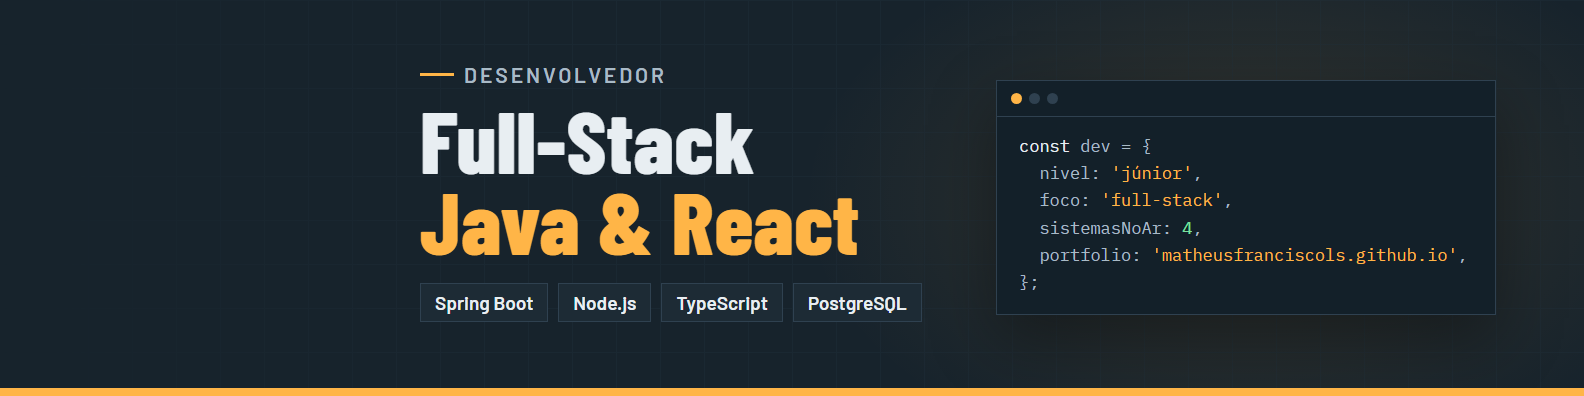
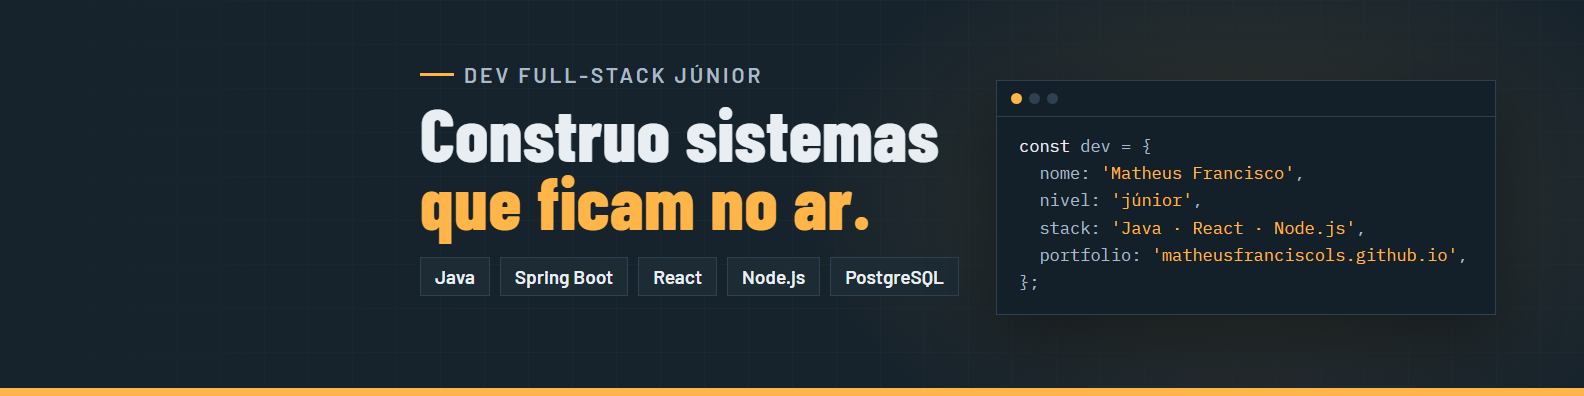
Capa do LinkedIn sem numeros que envelhecem (sem contador de sistemas)

diff --git a/meu-portfolio/og/capa-linkedin.html b/meu-portfolio/og/capa-linkedin.html
@@ -1,6 +1,6 @@
 <!doctype html>
 <html lang="pt-BR"><head><meta charset="utf-8">
-<!-- Capa do LinkedIn (1584 x 396), na identidade do portfólio "Painel ao vivo".
+<!-- Capa do LinkedIn (1584 x 396), na identidade do portfólio "Painel ao vivo". Sem números (sistemas no ar, projetos) para não envelhecer.
      Área segura: no computador a foto de perfil cobre o canto inferior esquerdo,
      e no celular o LinkedIn corta as laterais. O texto começa à direita da foto. -->
 <style>
@@ -16,7 +16,7 @@ body{width:1584px;height:396px;color:#e8eef2;font-family:'B',sans-serif;position
 .t{position:absolute;left:420px;top:62px}
 .k{display:flex;align-items:center;gap:10px;color:#a9bac6;font-weight:600;font-size:21px;letter-spacing:.14em;text-transform:uppercase}
 .k:before{content:'';width:34px;height:3px;background:#ffb547}
-h1{font-family:'BC';font-weight:800;font-size:88px;line-height:.92;margin-top:12px;letter-spacing:.005em}
+h1{font-family:'BC';font-weight:800;font-size:74px;line-height:.92;margin-top:12px;letter-spacing:.005em}
 h1 span{color:#ffb547}
 .chips{display:flex;gap:10px;margin-top:22px}
 .chips b{font-weight:600;font-size:19px;padding:7px 14px;border:1px solid #2f4150;background:#1d2b35;color:#e8eef2}
@@ -30,16 +30,16 @@ h1 span{color:#ffb547}
 </style></head><body>
 <div class="grid"></div>
 <div class="t">
-  <p class="k">Desenvolvedor</p>
-  <h1>Full-Stack<br><span>Java &amp; React</span></h1>
-  <div class="chips"><b>Spring Boot</b><b>Node.js</b><b>TypeScript</b><b>PostgreSQL</b></div>
+  <p class="k">Dev full-stack júnior</p>
+  <h1>Construo sistemas<br><span>que ficam no ar.</span></h1>
+  <div class="chips"><b>Java</b><b>Spring Boot</b><b>React</b><b>Node.js</b><b>PostgreSQL</b></div>
 </div>
 <div class="code">
   <div class="top"><i></i><i></i><i></i></div>
 <pre><span class="p">const</span> dev = {
+  nome: <span class="s">'Matheus Francisco'</span>,
   nivel: <span class="s">'júnior'</span>,
-  foco: <span class="s">'full-stack'</span>,
-  sistemasNoAr: <span class="v">4</span>,
+  stack: <span class="s">'Java · React · Node.js'</span>,
   portfolio: <span class="s">'matheusfranciscols.github.io'</span>,
 };</pre>
 </div>
